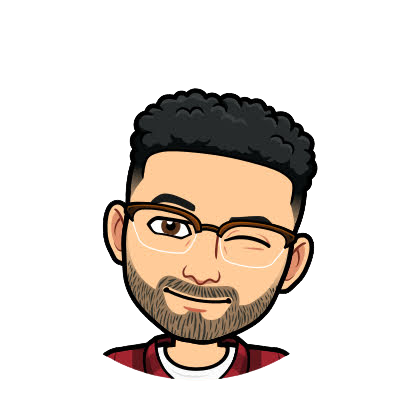
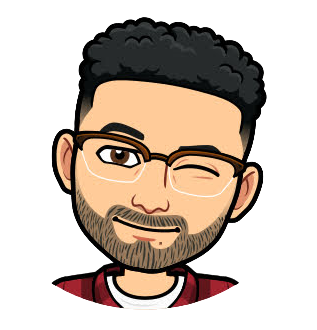
Adicionado bloco de trabalhos

diff --git a/style.css b/style.css
@@ -1,31 +1,40 @@
 /*GERAIS =======================================================*/
 
-body{
+body {
     background-color: grey;
     background-image: url(ativos/back-body.jpg);
     background-repeat: no-repeat;
     background-size: cover;
-   
+    font-family: Arial, Helvetica, sans-serif;
+    font-weight: bolder;
+    
 }
 
-h1, h2, h3{
+h1,
+h2,
+h3 {
     text-align: center;
 }
 
-h2{
+h2 {
     font-size: 22px;
+
+}
+
+p {
+    font-size: 20px;
 }
 
 /*CABEÇALHO ====================================================*/
 
-header{
+header {
     margin: auto;
     background-color: black;
     max-width: 1000px;
-    min-width: 280px;  
+    min-width: 280px;
 }
 
-#logo{
+#logo {
     display: block;
     margin: auto;
     width: 50%;
@@ -34,7 +43,7 @@ header{
 
 /*CORPO ========================================================*/
 
-main{
+main {
     margin: auto;
     background-color: white;
     max-width: 1000px;
@@ -44,161 +53,174 @@ main{
 
 /*Apresentação*/
 
-.apresentação{
+.apresentação {
     padding: 15px;
 }
 
-#avatar{
+#avatar {
     width: 30%;
 }
 
-.sinopse{
+.sinopse {
     margin-top: 20px;
     padding: 20px;
     display: inline;
     width: 70%;
     float: right;
     text-align: left;
-    font-family: Arial, Helvetica, sans-serif;
-    font-weight: bolder;
     box-sizing: border-box;
 }
 
-p{
-    font-size: 20px;
-    margin-bottom: 0;
-}
 
 /*habilidades*/
 
-.habilidades{
+.habilidades {
     background-color: #444444;
     color: white;
     padding: 15px;
-    font-family: Arial, Helvetica, sans-serif;
-    font-weight: bolder;
 }
 
-.tecnologia{
-    
+.tecnologia {
     width: 33.3%;
     display: inline-block;
-    
+
 }
 
-.h3habilidades{
+.h3habilidades {
     margin: 0%;
     font-size: 30px;
     position: relative;
     top: 20px;
 }
 
-.icone-tec{
+.icone-tec {
     width: 70%;
     display: block;
     margin: auto;
-   
+
 }
 
-.icone-check{
+.icone-check {
     width: 20%;
     display: block;
     margin: auto;
     position: relative;
     bottom: 20px;
-    
+
+}
+
+/*Trabalhos*/
+
+.trabalhos{
+    padding: 15px;
+    background-color: #212121;
+    color: white;
+    text-align: center;
+}
+
+#avatar-pisca{
+    display: block;
+    margin: auto;
+    width: 25%;
+
 }
 
 /*MEDIAS =====================================================*/
 
 @media screen and (max-width: 1000px){
 
-    #avatar{
-        width: 30%;
+    #avatar {
         display: block;
         float: none;
         margin: auto;
     }
 
-    .sinopse{
+    .sinopse {
         float: none;
-        text-align: center;  
+        text-align: center;
     }
 
-    .h3habilidades{
-    font-size: 25px; 
+    .h3habilidades {
+        font-size: 25px;
+    }
+
 }
 
-@media screen and (max-width: 800px){
+    @media screen and (max-width: 800px) {
 
-    .apresentação{
-        padding: 15PX;
+        .apresentação {
+            padding: 15PX;
+        }
+
+        #avatar {
+            display: block;
+            float: none;
+            margin: auto;
+        }
+
+        .sinopse {
+            float: none;
+            text-align: center;
+        }
+
+        h1 {
+            margin: 0%;
+        }
+
+        .h3habilidades {
+            font-size: 20px;
+            position: relative;
+            top: 10px;
+        }
+
+        .icone-check {
+            width: 20%;
+            position: relative;
+            bottom: 10px;
+        }
+
+        #avatar-pisca{
+            width: 35%;
+        }
+
     }
 
-    #avatar{
-        width: 30%;
-        display: block;
-        float: none;
-        margin: auto;
-    }
+    @media screen and (max-width: 500px) {
 
-    .sinopse{
-        float: none;
-        text-align: center;  
-    }
+        #logo {
+            width: 70%;
+        }
 
-    h1{
-        margin: 0%;
-    }
+        #avatar {
+            width: 60%;
+        }
 
-    .h3habilidades{
-        font-size: 20px;
-        position: relative;
-        top: 10px;
-    }
+        h1 {
+            font-size: 20px;
+        }
 
-    .icone-check{
-        width: 20%;
-        position: relative;
-        bottom: 10px;
-        
-    }
-    
-}
+        h2 {
+            font-size: 18px;
+        }
 
-@media screen and (max-width: 500px){
+        p {
+            font-size: 17px;
+        }
 
-    #logo{
-        width: 70%;
-    }
+        .tecnologia {
+            display: block;
+            margin: 0 auto 5px;
+        }
 
-    #avatar{
-        width: 60%;
-    }
-    
-    h1{
-        font-size: 20px;
-    }
+        .h3habilidades {
+            font-size: 15px;
+        }
 
-    h2{
-        font-size: 18px;
-    }
+        .icone-tec {
+            width: 100%;
+        }
 
-    p{
-        font-size: 17px;
+        #avatar-pisca{
+            width: 40%;
+        }
     }
-
-    .tecnologia{
-        display: block;
-        margin: 0 auto 5px;
-    }
-
-    .h3habilidades{
-        font-size: 15px;
-    }
-
-    .icone-tec{
-        width: 100%;
-       
-    }
-}

diff --git a/index.html b/index.html
@@ -51,6 +51,15 @@
         </section>
 
         <!--TRABALHOS-->
+        <section class="trabalhos">
+            <h2>MEUS TRABALHOS</h2>
+
+            <img id="avatar-pisca" src="ativos/breve.png" alt="Meu Avatar">
+
+            <p>Meus trabalhos e projétos serão postados aqui em breve, fique de olho! </p>
+
+            <br>
+        </section>
     </main>
 
 </body>
